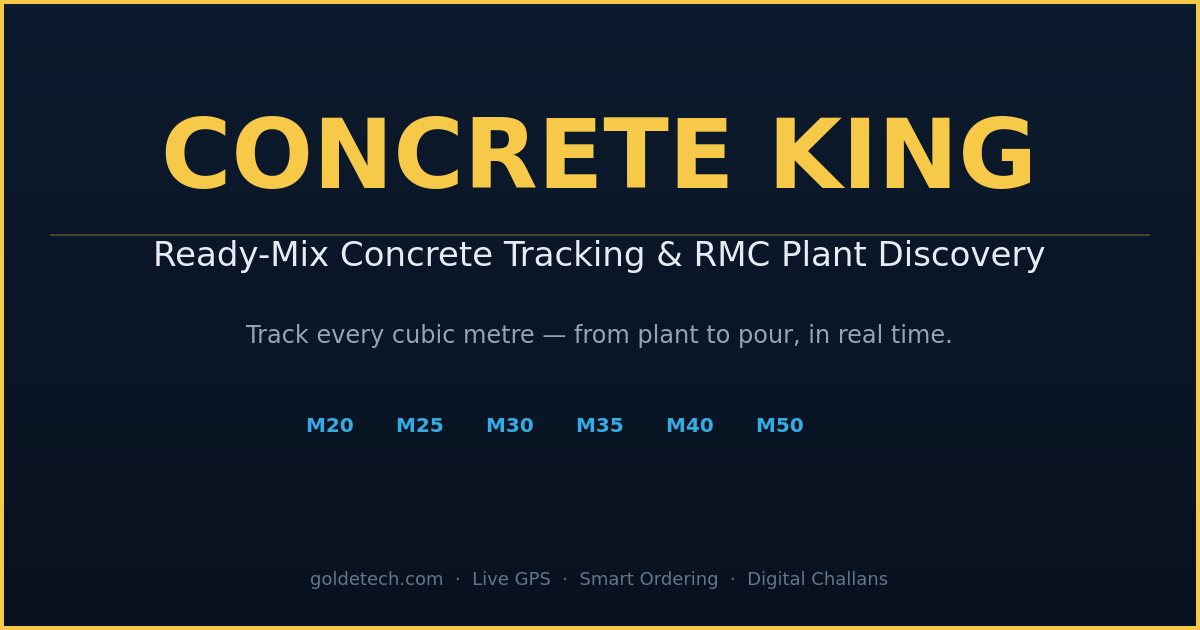
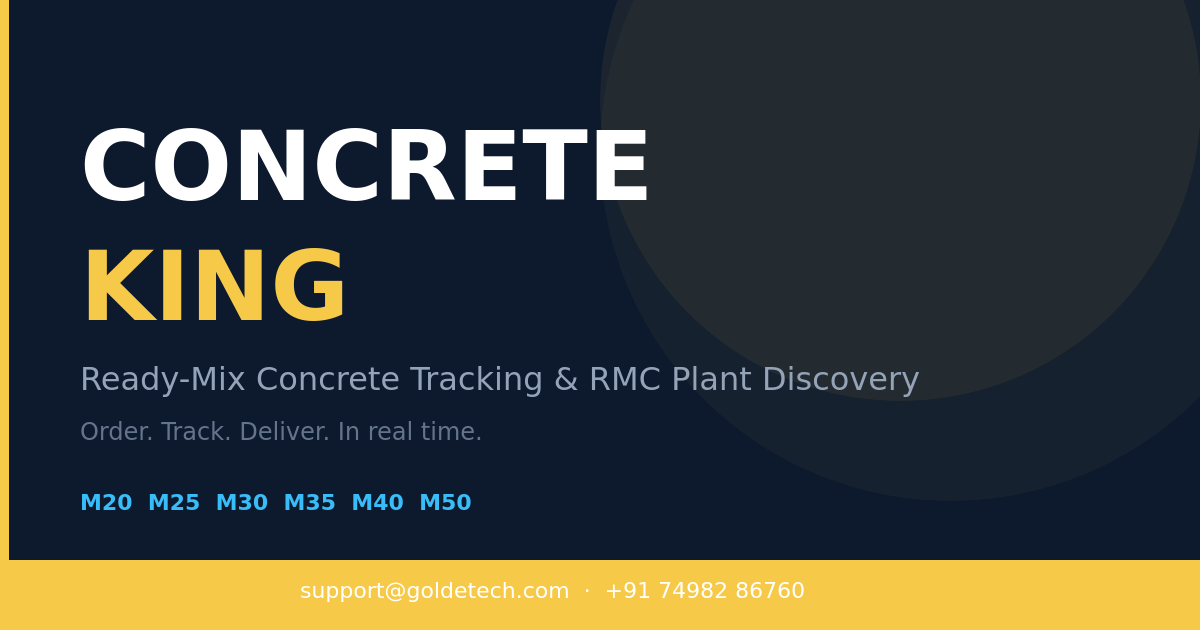
fix(seo): replace blank social-preview image and remove phantom SearchAction
Task: Homepage Metadata & Social Sharing

## Changes

### 1. rmc-app/public/social-preview.png (replaced)
- Old file was a plain dark background with a thin gold stripe — no text,
  no product name, no value proposition. Social bots got essentially a blank card.
- New 1200×630 branded image generated with ImageMagick:
  · Dark navy (#08111f) background matching brand design system
  · Bold "CONCRETE / KING" wordmark (white + gold #f7c948)
  · Subtitle: "Ready-Mix Concrete Tracking & RMC Plant Discovery"
  · Tagline: "Order. Track. Deliver. In real time."
  · Grade badges: M20 M25 M30 M35 M40 M50 in brand blue (#38bdf8)
  · Gold footer bar with contact email and phone
- og:image and twitter:image tags already pointed to this path — no URL change needed.

### 2. rmc-app/index.html — added og:image:alt and twitter:image:alt
- Added both alt meta tags with text that accurately reflects the actual
  image content (wordmark, value prop, grade list) rather than describing
  a UI screenshot that isn't present.

### 3. rmc-app/index.html — removed phantom SearchAction from WebSite JSON-LD
- Removed the `potentialAction` / `SearchAction` block that advertised a
  public search URL (?q=) which has no corresponding route or handler.
- WebSite schema now only asserts what the page actually provides.
  Re-add SearchAction only once a real public search endpoint is live.

No new features or routes were introduced — all changes are strictly SEO/metadata fixes.
[…]

diff --git a/rmc-app/index.html b/rmc-app/index.html
@@ -24,7 +24,7 @@
     <meta property="og:description" content="Track ready-mix concrete deliveries live, discover approved RMC plants near you, and manage every pour in real time." />
     <meta property="og:url" content="https://www.goldetech.com/" />
     <meta property="og:image" content="https://www.goldetech.com/social-preview.png" />
-    <meta property="og:image:alt" content="Concrete King — Ready-Mix Concrete Tracking & RMC Plant Discovery platform" />
+    <meta property="og:image:alt" content="Concrete King — Ready-Mix Concrete Tracking &amp; RMC Plant Discovery. Order. Track. Deliver. In real time. Grades: M20 M25 M30 M35 M40 M50." />
     <meta property="og:locale" content="en_IN" />
 
     <!-- Twitter Card -->
@@ -32,7 +32,7 @@
     <meta name="twitter:title" content="Concrete King | Ready-Mix Concrete Tracking &amp; RMC Plant Discovery" />
     <meta name="twitter:description" content="Track ready-mix concrete deliveries live, discover approved RMC plants near you, and manage every pour in real time." />
     <meta name="twitter:image" content="https://www.goldetech.com/social-preview.png" />
-    <meta name="twitter:image:alt" content="Concrete King — Ready-Mix Concrete Tracking & RMC Plant Discovery platform" />
+    <meta name="twitter:image:alt" content="Concrete King — Ready-Mix Concrete Tracking &amp; RMC Plant Discovery. Order. Track. Deliver. In real time. Grades: M20 M25 M30 M35 M40 M50." />
 
     <!-- Structured Data: Organization -->
     <script type="application/ld+json">
